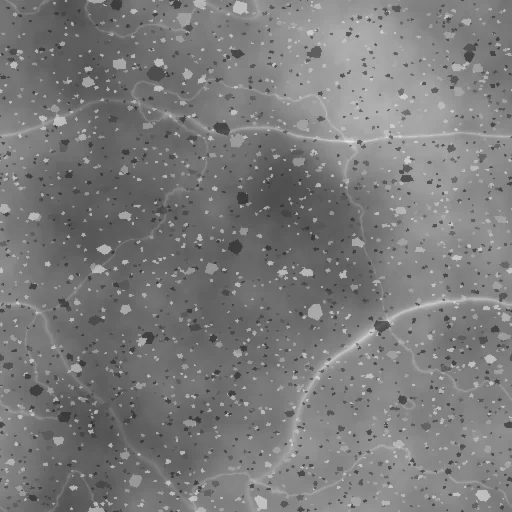
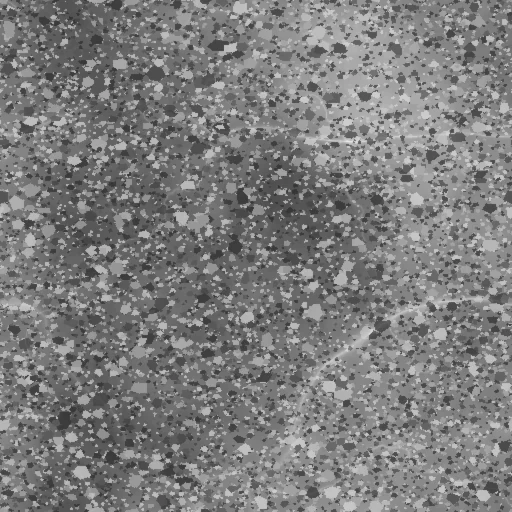
Pour the terrazzo as terrazzo: mostly aggregate, each field its own mix
The floor's terrazzo was a flat ground with a sparse scatter of flecks:
only 6.5% (night) and 7.2% (day) of the tile sat more than 25 levels off
its median, and it read as a speckled laminate or sprayed plaster. The
medallion's and roundels' pieces were flat colour with the same sparse
dots.

The tile is rebaked as poured, ground terrazzo: chips of six stones in
four sizes cover about half the face, drawn smallest first so the large
chips lie over the small ones as a cut section does, with a few glassy
chips that catch a pin of light and a fine figure under the grinding.
It is baked at 512 and laid at 0.9 of the floor's height (it was 0.36),
so a large chip shows at about the size a real one would; the border
course follows the same scale. 32-34% of the tile now sits more than 25
levels off its median. The inlays' figure carries the same density,
three sizes over 46% of its face, so in soft light over each field every
poured field shows its own mix in that field's colour.

diff --git a/static/css/atrium.css b/static/css/atrium.css
@@ -3448,7 +3448,7 @@ html[lang="zh"] .bay-plate { font-weight: 700; letter-spacing: 0.16em; }
     repeating-linear-gradient(0deg, var(--strip) 0 1.5px, var(--strip-lt) 1.5px 2.5px, transparent 2.5px 11.6%),
     var(--floor-img);
   background-size: 100% 100%, 100% 100%, 100% 100%, 100% 100%,
-    calc(var(--fh, 320px) * 0.36) calc(var(--fh, 320px) * 0.36);
+    calc(var(--fh, 320px) * 0.9) calc(var(--fh, 320px) * 0.9);
 }
 .fl-key { opacity: 0.55; }
 .fl-border { border-color: var(--stone-b); outline-color: color-mix(in srgb, var(--lead-2) 60%, transparent); }

diff --git a/static/css/palace-room.css b/static/css/palace-room.css
@@ -879,7 +879,7 @@ html[data-entered="no"] #entrance.night.house ~ #hall .st-fan.on[data-state="ope
 :root[data-theme] .fl-border {
   border: none; outline: none;
   padding: 1.5cqw;
-  background: var(--course-tint), var(--course-img) 0 0 / calc(var(--fh, 320px) * 0.36) auto;
+  background: var(--course-tint), var(--course-img) 0 0 / calc(var(--fh, 320px) * 0.9) auto;
   background-blend-mode: var(--course-blend, multiply), normal;
   -webkit-mask: linear-gradient(#000 0 0) content-box, linear-gradient(#000 0 0);
   -webkit-mask-composite: xor;

diff --git a/scripts/materials.py b/scripts/materials.py
@@ -207,48 +207,74 @@ def travertine(n=1024):
 
 
 def terrazzo(n=1024, dark=True):
-    """Terrazzo: a cement matrix with crushed marble at three sizes. Chips
-    are angular (crushed stone has faces, not petals), drawn at 2x and
-    downsampled for clean edges, and every chip near an edge is drawn again
-    one tile over so the tile wraps."""
+    """Terrazzo as it is poured, ground and waxed: mostly aggregate. Chips of
+    marble in several stones and four sizes cover about half the face, cut
+    flat by the grinding so each shows its own colour and figure, with a few
+    glassy chips (mother-of-pearl, amber glass) that catch a pin of light.
+    The cement shows only between them. Sizes run from fines to chips a
+    fiftieth of the tile, drawn smallest first so the big chips lie over
+    the small ones as a cut section does. It was about 7% scattered flecks
+    on a flat ground and read as a speckled laminate (AR-30). Drawn at 2x
+    and downsampled for clean edges, and wrapped so the tile repeats. Sizes
+    are given for a 1024 tile and scale with n; the floor lays it at 0.9 of
+    its own height, so 512 is already finer than the screen shows."""
     from PIL import ImageDraw
     rng = np.random.default_rng(51 if dark else 52)
     matrix = fbm(n, 53, 2.0) * 0.7 + fbm(n, 54, 0.7) * 0.3
     if dark:
-        base = ramp(matrix, [(0, (18, 16, 13)), (1, (36, 32, 27))])
-        palette = [(70, 62, 50), (112, 98, 74), (44, 40, 35), (150, 128, 86),
-                   (88, 80, 68), (128, 118, 104), (60, 50, 40)]
+        base = ramp(matrix, [(0, (22, 20, 17)), (1, (38, 34, 29))])
+        # nero, bardiglio grey, travertine, giallo siena, statuary white, levanto red
+        stones = [((10, 9, 8), 0.24), ((50, 46, 41), 0.22), ((88, 78, 62), 0.18),
+                  ((132, 110, 70), 0.12), ((150, 144, 132), 0.12), ((70, 32, 28), 0.12)]
+        glass = [(196, 186, 160), (170, 120, 60)]
     else:
-        base = ramp(matrix, [(0, (210, 203, 188)), (1, (232, 226, 214))])
-        palette = [(172, 162, 142), (146, 134, 112), (194, 186, 168), (124, 110, 88),
-                   (206, 194, 168), (160, 156, 148), (184, 170, 140)]
+        base = ramp(matrix, [(0, (204, 197, 182)), (1, (222, 216, 203))])
+        # carrara white, bardiglio grey, siena, verona rose, dark grey, cream
+        stones = [((238, 235, 226), 0.26), ((170, 164, 152), 0.2), ((200, 172, 128), 0.16),
+                  ((196, 150, 132), 0.14), ((126, 120, 110), 0.12), ((226, 210, 174), 0.12)]
+        glass = [(236, 232, 222), (200, 150, 84)]
+    cols = np.array([c for c, _ in stones], dtype=np.float64)
+    wts = np.array([w for _, w in stones])
+    wts = wts / wts.sum()
     S = 2
     img = Image.fromarray(np.clip(base, 0, 255).astype(np.uint8), "RGB").resize((n * S, n * S))
     d = ImageDraw.Draw(img)
-    for cell, rmin, rmax, skip in ((72, 7, 15, 0.30), (30, 2.8, 6.0, 0.15), (12, 0.9, 2.2, 0.10)):
-        for gy in range(0, n, cell):
-            for gx in range(0, n, cell):
-                if rng.random() < skip:
-                    continue
-                cx = gx + rng.uniform(0, cell)
-                cy = gy + rng.uniform(0, cell)
-                r = rng.uniform(rmin, rmax)
-                k = int(rng.integers(5, 9))
-                angs = np.sort(rng.uniform(0, 2 * np.pi, k))
-                rad = r * rng.uniform(0.55, 1.15, k)
-                col = np.array(palette[rng.integers(len(palette))], dtype=np.float64)
-                col = tuple(int(c) for c in np.clip(col * rng.uniform(0.82, 1.15), 0, 255))
-                for ox in (-n, 0, n):
-                    for oy in (-n, 0, n):
-                        px = cx + ox
-                        py = cy + oy
-                        if px + r < -2 or px - r > n + 2 or py + r < -2 or py - r > n + 2:
-                            continue
-                        pts = [((px + rr * np.cos(t)) * S, (py + rr * np.sin(t)) * S)
-                               for rr, t in zip(rad, angs)]
-                        d.polygon(pts, fill=col)
+    glints = []
+    # (count, rmin, rmax): fines, small, medium, large; about half the face
+    for count, rmin, rmax in ((26000, 0.9, 1.9), (11000, 2.2, 4.5), (3800, 5.0, 10.0), (950, 11.0, 21.0)):
+        for _ in range(count):
+            cx, cy = rng.uniform(0, n, 2)
+            r = rng.uniform(rmin, rmax) * n / 1024
+            k = int(rng.integers(5, 9))
+            angs = np.sort(rng.uniform(0, 2 * np.pi, k))
+            rad = r * rng.uniform(0.55, 1.1, k)
+            sq = rng.uniform(0.6, 1.0)
+            if rng.random() < 0.025:
+                col = np.array(glass[rng.integers(len(glass))], dtype=np.float64)
+                if r > 3:
+                    glints.append((cx - r * 0.3, cy - r * 0.3, max(0.7, r * 0.18)))
+            else:
+                col = cols[rng.choice(len(cols), p=wts)]
+            col = tuple(int(c) for c in np.clip(col * rng.uniform(0.88, 1.12), 0, 255))
+            for ox in (-n, 0, n):
+                for oy in (-n, 0, n):
+                    px, py = cx + ox, cy + oy
+                    if px + r < -2 or px - r > n + 2 or py + r < -2 or py - r > n + 2:
+                        continue
+                    d.polygon([((px + rr * np.cos(t)) * S, (py + rr * np.sin(t) * sq) * S)
+                               for rr, t in zip(rad, angs)], fill=col)
+    for gx, gy, gr in glints:
+        for ox in (-n, 0, n):
+            for oy in (-n, 0, n):
+                px, py = gx + ox, gy + oy
+                if -2 < px < n + 2 and -2 < py < n + 2:
+                    d.ellipse([(px - gr) * S, (py - gr) * S, (px + gr) * S, (py + gr) * S], fill=(255, 252, 240))
     img = img.resize((n, n), Image.LANCZOS)
-    return np.asarray(img, dtype=np.float64)
+    rgb = np.asarray(img, dtype=np.float64)
+    # each stone has its own figure under the grinding: a fine mottle over
+    # all of it, so no chip is a flat vector fill
+    fig = fbm(n, 55, 0.9) - 0.5
+    return rgb * (1 + fig * 0.10)[..., None]
 
 
 # ---------------------------------------------------------------- veneers
@@ -792,8 +818,8 @@ BAKES = [
     ("stone-calacatta", calacatta, "rgb"),
     ("stone-rouge", rouge, "rgb"),
     ("stone-travertine", travertine, "rgb"),
-    ("terrazzo-onyx", lambda: terrazzo(1024, True), "rgb"),
-    ("terrazzo-ivory", lambda: terrazzo(1024, False), "rgb"),
+    ("terrazzo-onyx", lambda: terrazzo(512, True), "rgb"),
+    ("terrazzo-ivory", lambda: terrazzo(512, False), "rgb"),
     ("veneer-macassar", macassar, "rgb"),
     ("veneer-walnut", walnut, "rgb"),
     ("veneer-ash", ash, "rgb"),

diff --git a/scripts/materials_room.py b/scripts/materials_room.py
@@ -288,14 +288,20 @@ def vein_gray(n=512, seed=301):
     them: each field carries its own aggregate (light marble and dark
     shards of several sizes) under a cloud and a few flowing veins, so a
     field reads as poured and ground stone whatever colour it is, rather
-    than as a flat fill."""
+    than as a flat fill.
+    As densely as the floor's own terrazzo, about half the face in chips of
+    three sizes: with a few hundred shards a field read as a flat colour with
+    sparse dots next to the floor's aggregate (AR-30). Soft-light over each
+    field's stone, the one figure gives each field its own mix, its chips a
+    lighter and a darker cut of that field's colour."""
     cloud = fbm(n, seed, 1.8)
     v = (flow_veins(n, seed + 1, 2.4, (1.6, 1.0), 0.10, 30, 0.8) * 0.8
          + ridges(n, seed + 2, 2.2, 140) * 0.4)
     lum = 0.5 + (cloud - 0.5) * 0.40 + np.clip(v, 0, 1) * 0.34
-    big = _chips(n, seed + 3, 300, 3.0, 8.0)
-    fine = _chips(n, seed + 4, 2600, 1.0, 2.6)
-    chips = np.where(np.abs(big - 0.5) > 0.01, big, fine)
+    big = _chips(n, seed + 3, 1400, 3.0, 8.0)
+    mid = _chips(n, seed + 5, 3600, 1.8, 3.6)
+    fine = _chips(n, seed + 4, 8000, 1.0, 2.2)
+    chips = np.where(np.abs(big - 0.5) > 0.01, big, np.where(np.abs(mid - 0.5) > 0.01, mid, fine))
     lum = np.where(np.abs(chips - 0.5) > 0.01, lum * 0.35 + chips * 0.65, lum)
     g = np.clip(gaussian_filter(lum, 0.45, mode="wrap"), 0, 1) * 255
     return np.dstack([g, g, g])
